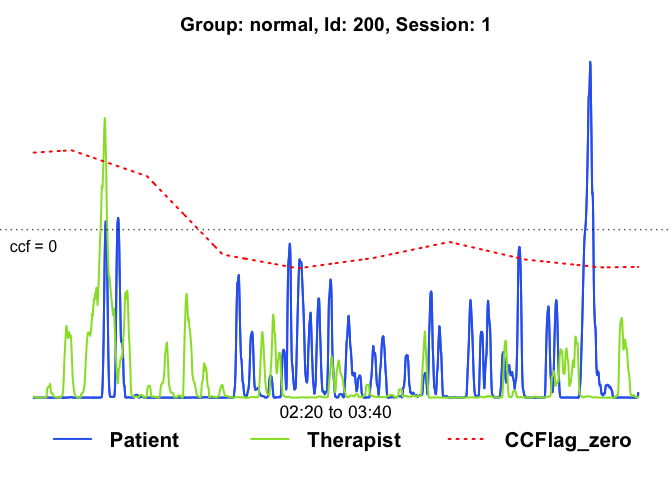
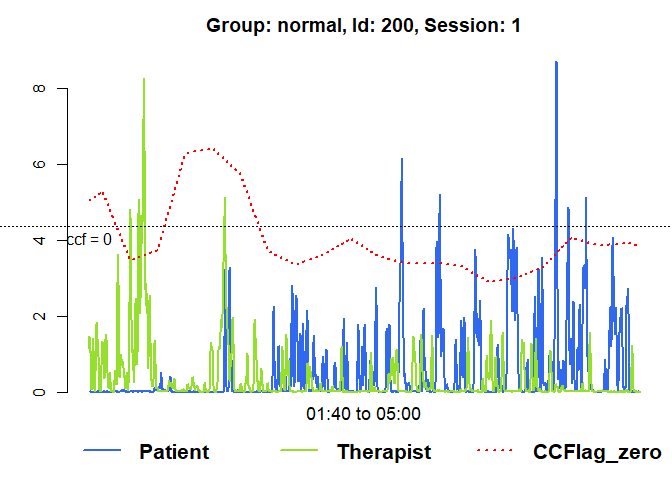
updated readme and NEWS for 1.1.0 release

diff --git a/NEWS.md b/NEWS.md
@@ -1,5 +1,19 @@
 # rMEA
 
+### v1.1.0 
+[2019/03/22] Yearly update to CRAN 
+
+  * included LICENSE file
+  * improved fisher's transform performance
+  * updated rangeRescale function
+  * fixed minor bug in heatmap scaling
+  * added heatmap "rescal" parameter to highlight small trends in data
+  * improved axis label in various plots
+  * plot.MEA can now use "duration" instead of "to"
+  * various minor bug fixes
+  * added plot.MEAlist
+
+
 ### v1.0.0.9012
 * Implemented "[.MEAlist" method to extract from MEAlist while retaining metadata.
 * included a function to extract CCF values (getCCF())

diff --git a/README.md b/README.md
@@ -151,7 +151,7 @@ diagnosticPlot(mea_all[[1]])
 ![](tools/readme/README-example-1.png)
 
 ``` r
-plot(mea_all[[1]], from=3500, to=5500)
+plot(mea_all[[1]], from=1, to=200)
 ```
 
 ![](tools/readme/README-example-2.png)
@@ -194,7 +194,7 @@ mea_random_ccf <- MEAccf(mea_random, lagSec= 5, winSec = 30, incSec=10, ABS = F)
 ## Visualize results
 
 # Raw data of the first session with running lag-0 ccf
-plot(mea_ccf[[1]], from=3500, to=5500, ccf = "lag_zero")
+plot(mea_ccf[[1]], from=100, to=300, ccf = "lag_zero")
 ```
 
 ![](tools/readme/README-example-3.png)
